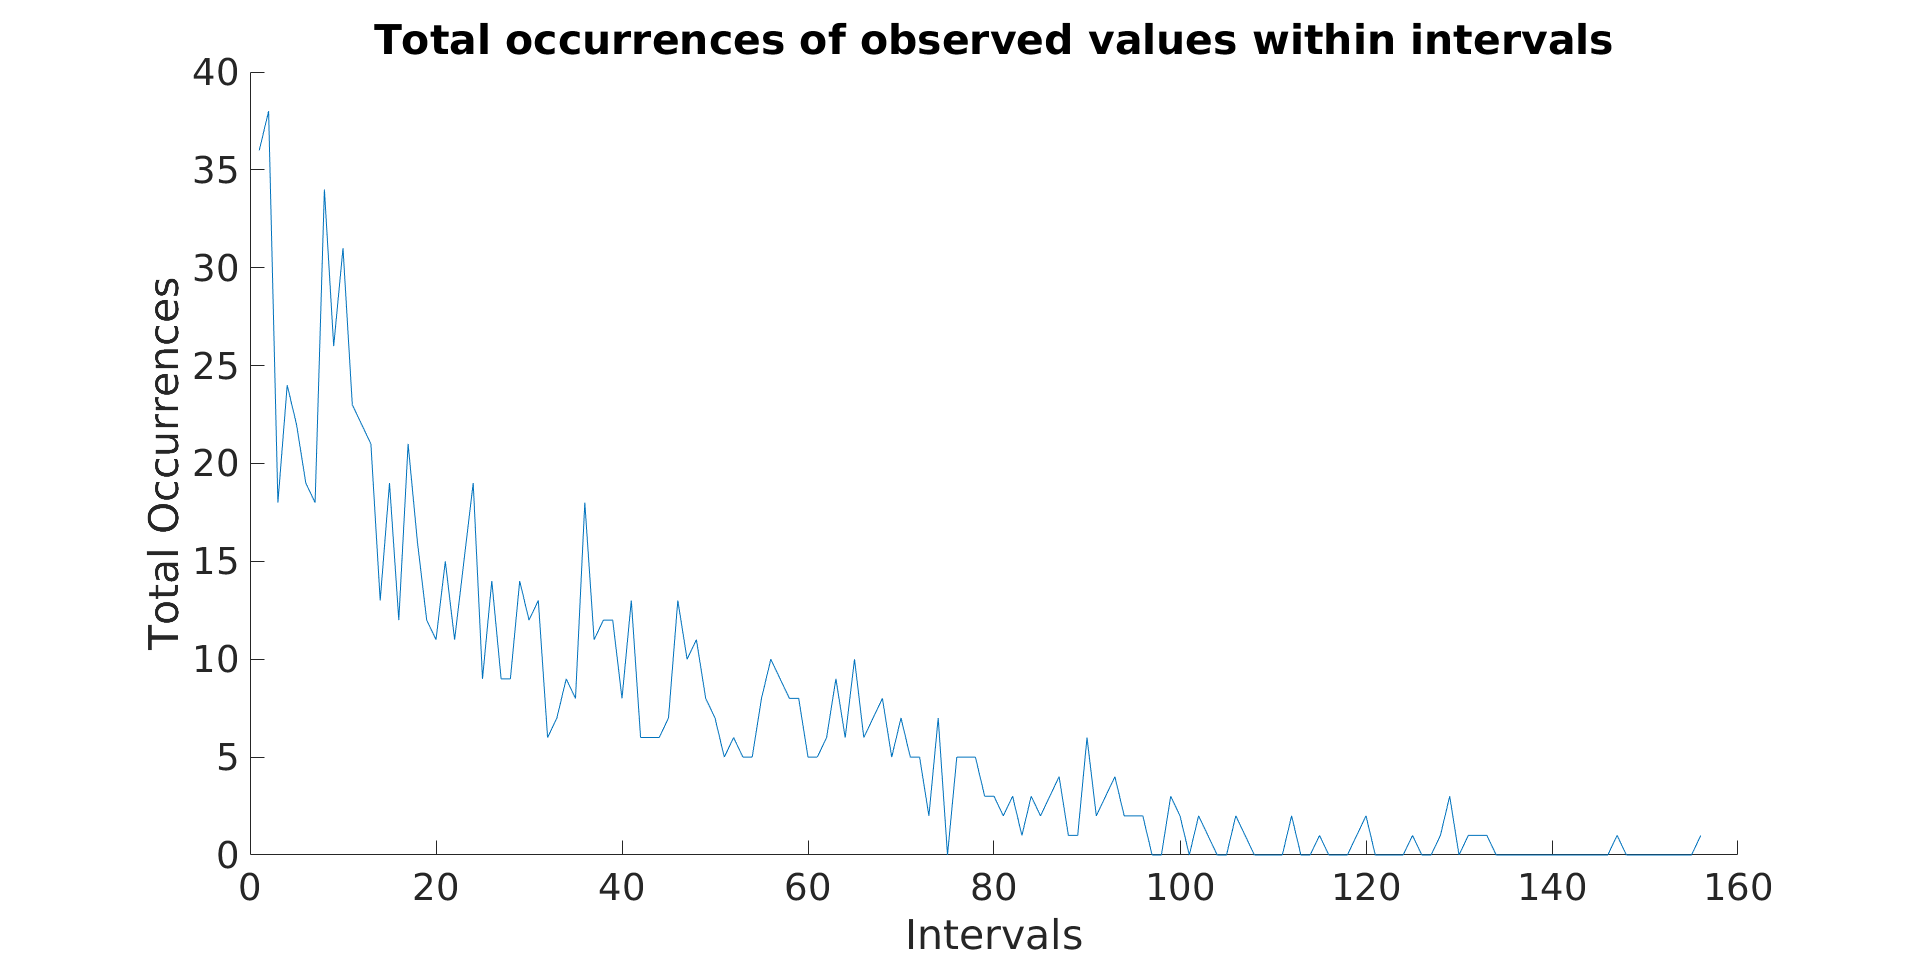
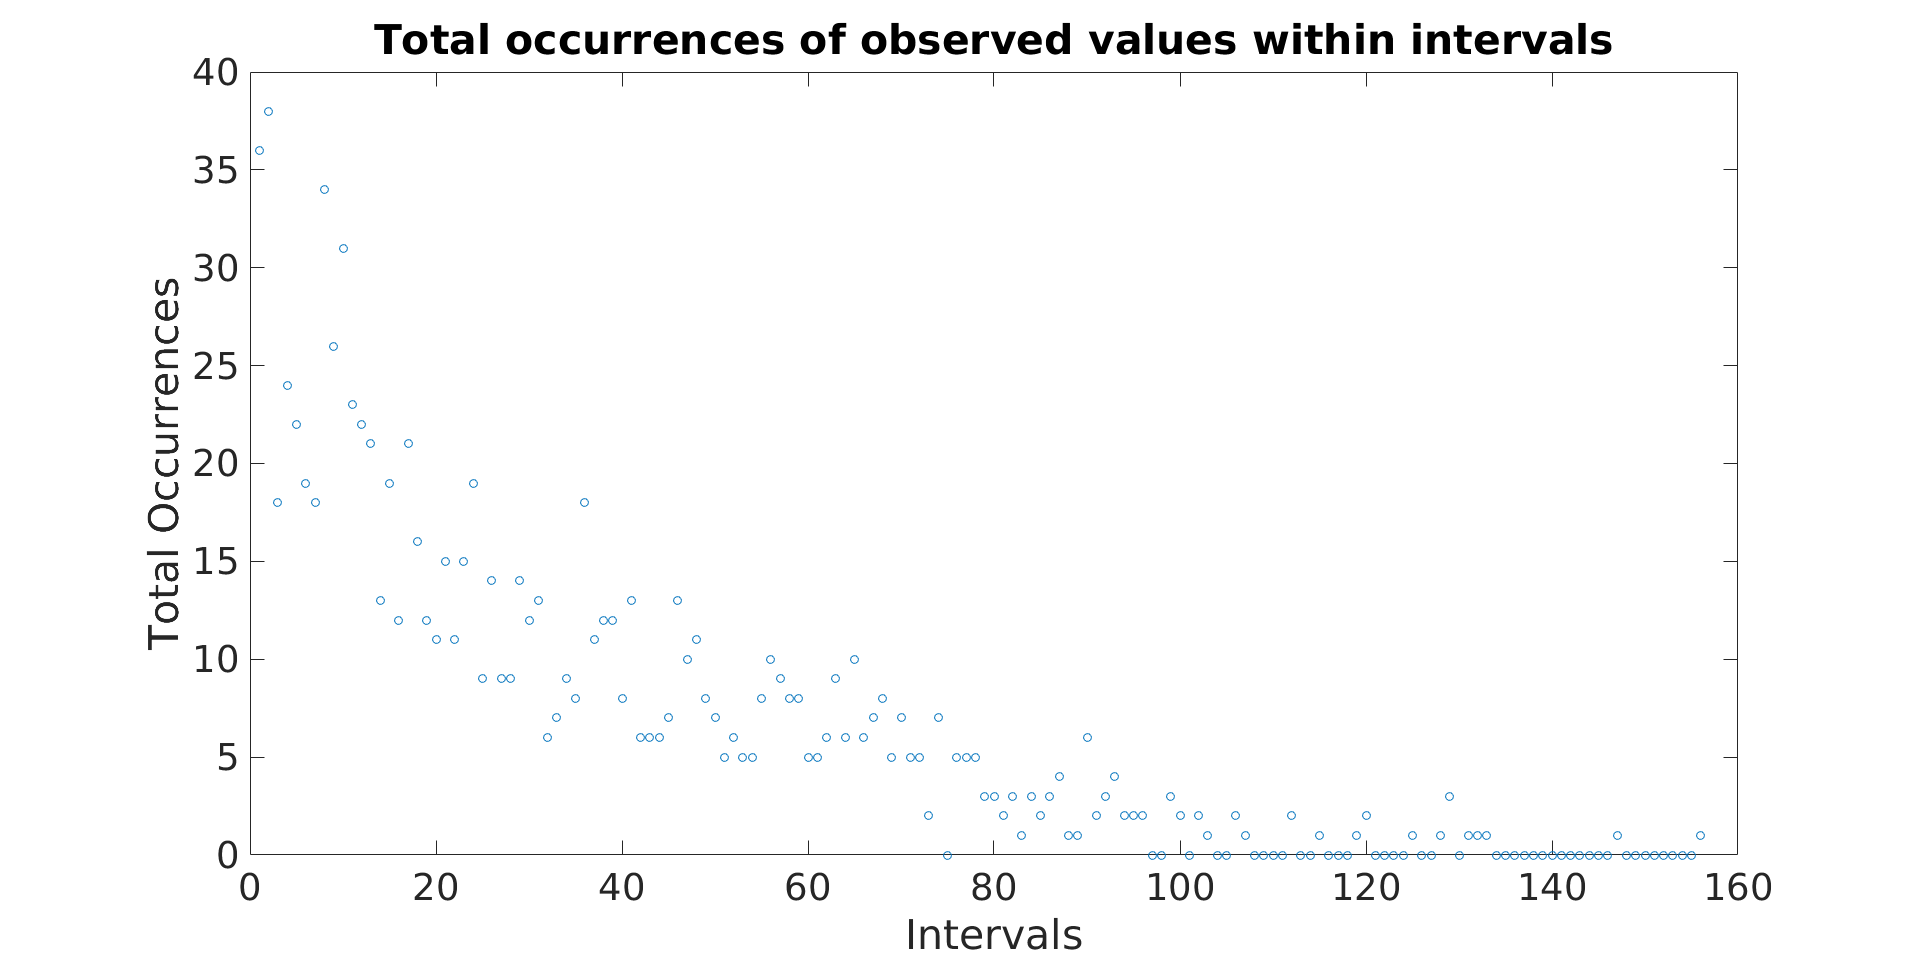
total occurrence graph shouldn't be connected, changed that to dots

diff --git a/exam_project/tracefile_analysis/chisquared_exp.m b/exam_project/tracefile_analysis/chisquared_exp.m
@@ -32,12 +32,13 @@ while i < N_j_length
 end
 % Plot value distribution into bins.
 figure;
-plot(N_j);
+plot(N_j, 'o');
 title('Total occurrences of observed values within intervals');
 xlabel('Intervals');
 ylabel('Total Occurrences');
 set(gca,'FontSize',28)
 % Determine expected values.
+lambda = mean(observed_values)
 expected_frequency = zeros(length(N_j), 1);
 for i=1:length(N_j)    
     expected_frequency(i,1) = (expcdf(observed_min + i * interval_size, lambda) - expcdf(observed_max + (i-1) * interval_size, lambda)) * sum(N_j);    
